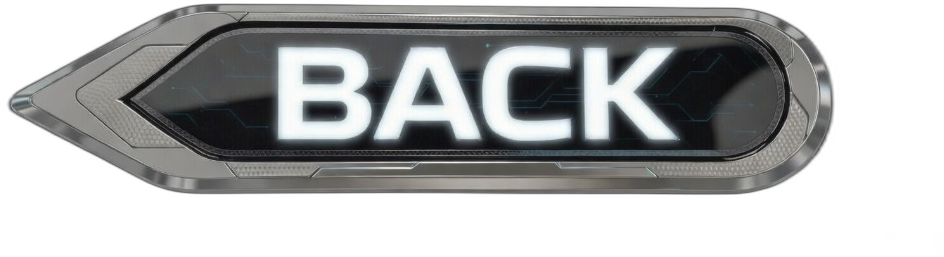
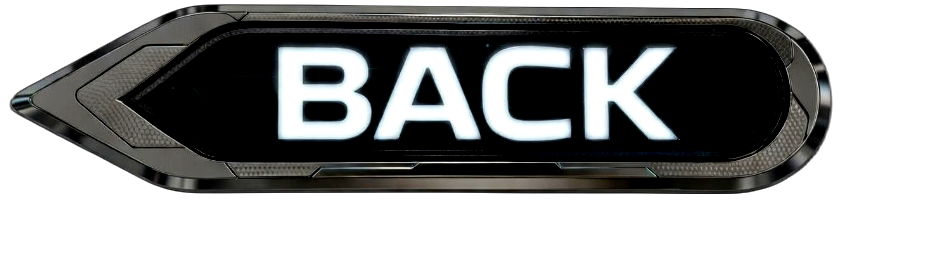
style: Restyle Invite Friends to card format with Facebook color scheme
- social-media.js: Invite Friends is now a card in the sidebar grid with
  Facebook blue SVG person-plus icon, removed from bottom links
- hamburgerMenus.js: removed emojis from all Invite Friends labels
- InviteFriendsModal.jsx: full Facebook color scheme (#1877F2, #242526,
  #42B72A), all emojis removed from buttons and text
- settings.js: referral card restyled to Facebook blue/green, all emojis
  removed from title, buttons, and body text

diff --git a/src/components/ui/InviteFriendsModal.jsx b/src/components/ui/InviteFriendsModal.jsx
@@ -16,8 +16,8 @@ const supabase = createClient(
 );
 
 // Share channel configurations
-const SHARE_MESSAGE = "Join me on Smarter.Poker — the ultimate poker training platform! Use my referral link to get 500💎 free diamonds on signup!";
-const SHARE_TITLE = "Join Smarter.Poker — Get 500💎 Free!";
+const SHARE_MESSAGE = "Join me on Smarter.Poker — the ultimate poker training platform! Use my referral link to get 500 free diamonds on signup!";
+const SHARE_TITLE = "Join Smarter.Poker — Get 500 Free Diamonds!";
 
 export default function InviteFriendsModal({ isOpen, onClose, user }) {
     const [playerNumber, setPlayerNumber] = useState(null);
@@ -177,10 +177,10 @@ export default function InviteFriendsModal({ isOpen, onClose, user }) {
                     width: 'min(420px, 92vw)',
                     maxHeight: '90vh',
                     overflowY: 'auto',
-                    background: 'linear-gradient(160deg, #1a1d2e, #0d0f1a)',
-                    border: '1px solid rgba(0, 212, 255, 0.25)',
+                    background: 'linear-gradient(160deg, #242526, #18191A)',
+                    border: '1px solid rgba(24, 119, 242, 0.3)',
                     borderRadius: 20,
-                    boxShadow: '0 20px 60px rgba(0,0,0,0.6), 0 0 40px rgba(0, 212, 255, 0.1)',
+                    boxShadow: '0 20px 60px rgba(0,0,0,0.6), 0 0 40px rgba(24, 119, 242, 0.1)',
                     zIndex: 10001,
                     animation: 'inviteModalIn 0.3s ease',
                     padding: 0,
@@ -202,14 +202,14 @@ export default function InviteFriendsModal({ isOpen, onClose, user }) {
                             color: '#fff',
                             letterSpacing: '-0.3px',
                         }}>
-                            🤝 Invite Friends
+                            Invite Friends
                         </h2>
                         <p style={{
                             margin: '6px 0 0',
                             fontSize: 13,
                             color: 'rgba(255,255,255,0.5)',
                         }}>
-                            Earn <strong style={{ color: '#FFD700' }}>500 💎</strong> for every friend who signs up!
+                            Earn <strong style={{ color: '#31A24C' }}>500 diamonds</strong> for every friend who signs up!
                         </p>
                     </div>
                     <button
@@ -239,8 +239,8 @@ export default function InviteFriendsModal({ isOpen, onClose, user }) {
                 {/* Referral Link Display */}
                 <div style={{ padding: '16px 24px' }}>
                     <div style={{
-                        background: 'rgba(0, 212, 255, 0.06)',
-                        border: '1px solid rgba(0, 212, 255, 0.15)',
+                        background: 'rgba(24, 119, 242, 0.06)',
+                        border: '1px solid rgba(24, 119, 242, 0.15)',
                         borderRadius: 12,
                         padding: '14px 16px',
                         display: 'flex',
@@ -250,7 +250,7 @@ export default function InviteFriendsModal({ isOpen, onClose, user }) {
                         <div style={{
                             flex: 1,
                             fontSize: 13,
-                            color: 'rgba(0, 212, 255, 0.9)',
+                            color: 'rgba(24, 119, 242, 0.9)',
                             fontFamily: 'monospace',
                             overflow: 'hidden',
                             textOverflow: 'ellipsis',
@@ -260,13 +260,13 @@ export default function InviteFriendsModal({ isOpen, onClose, user }) {
                         </div>
                         {playerNumber && (
                             <div style={{
-                                background: 'rgba(236, 72, 153, 0.2)',
-                                border: '1px solid rgba(236, 72, 153, 0.3)',
+                                background: 'rgba(24, 119, 242, 0.2)',
+                                border: '1px solid rgba(24, 119, 242, 0.3)',
                                 borderRadius: 8,
                                 padding: '4px 10px',
                                 fontSize: 12,
                                 fontWeight: 700,
-                                color: '#EC4899',
+                                color: '#1877F2',
                                 whiteSpace: 'nowrap',
                             }}>
                                 #{playerNumber}
@@ -285,8 +285,8 @@ export default function InviteFriendsModal({ isOpen, onClose, user }) {
                             flex: 1,
                             padding: '14px 16px',
                             background: copied
-                                ? 'linear-gradient(135deg, #10b981, #059669)'
-                                : 'linear-gradient(135deg, #00D4FF, #0088cc)',
+                                ? 'linear-gradient(135deg, #31A24C, #2b9a45)'
+                                : 'linear-gradient(135deg, #1877F2, #166FE5)',
                             border: 'none',
                             borderRadius: 12,
                             color: '#fff',
@@ -299,11 +299,11 @@ export default function InviteFriendsModal({ isOpen, onClose, user }) {
                             gap: 8,
                             transition: 'all 0.3s',
                             boxShadow: copied
-                                ? '0 4px 16px rgba(16, 185, 129, 0.4)'
-                                : '0 4px 16px rgba(0, 212, 255, 0.3)',
+                                ? '0 4px 16px rgba(49, 162, 76, 0.4)'
+                                : '0 4px 16px rgba(24, 119, 242, 0.3)',
                         }}
                     >
-                        {copied ? '✓ Copied!' : '📋 Copy Link'}
+                        {copied ? 'Copied!' : 'Copy Link'}
                     </button>
 
                     {/* Native Share - only on supported devices */}
@@ -314,7 +314,7 @@ export default function InviteFriendsModal({ isOpen, onClose, user }) {
                             style={{
                                 flex: 1,
                                 padding: '14px 16px',
-                                background: 'linear-gradient(135deg, #8B5CF6, #7C3AED)',
+                                background: 'linear-gradient(135deg, #1877F2, #42B72A)',
                                 border: 'none',
                                 borderRadius: 12,
                                 color: '#fff',
@@ -326,10 +326,10 @@ export default function InviteFriendsModal({ isOpen, onClose, user }) {
                                 justifyContent: 'center',
                                 gap: 8,
                                 transition: 'all 0.3s',
-                                boxShadow: '0 4px 16px rgba(139, 92, 246, 0.3)',
+                                boxShadow: '0 4px 16px rgba(24, 119, 242, 0.3)',
                             }}
                         >
-                            📱 Share
+                            Share
                         </button>
                     )}
                 </div>
@@ -357,7 +357,7 @@ export default function InviteFriendsModal({ isOpen, onClose, user }) {
                         onMouseEnter={e => e.currentTarget.style.background = 'rgba(255,255,255,0.1)'}
                         onMouseLeave={e => e.currentTarget.style.background = 'rgba(255,255,255,0.06)'}
                     >
-                        📧 Email
+                        Email
                     </a>
                     <a
                         href={`sms:?body=${encodeURIComponent(fullMessage)}`}
@@ -380,7 +380,7 @@ export default function InviteFriendsModal({ isOpen, onClose, user }) {
                         onMouseEnter={e => e.currentTarget.style.background = 'rgba(255,255,255,0.1)'}
                         onMouseLeave={e => e.currentTarget.style.background = 'rgba(255,255,255,0.06)'}
                     >
-                        💬 SMS
+                        SMS
                     </a>
                 </div>
 
@@ -468,9 +468,9 @@ export default function InviteFriendsModal({ isOpen, onClose, user }) {
                         color: 'rgba(255,255,255,0.3)',
                         lineHeight: 1.5,
                     }}>
-                        Your referral code: <strong style={{ color: '#EC4899' }}>#{playerNumber || '...'}</strong>
+                        Your referral code: <strong style={{ color: '#1877F2' }}>#{playerNumber || '...'}</strong>
                         <br />
-                        Friends enter your code during signup • You earn 500💎 each time
+                        Friends enter your code during signup and you earn 500 diamonds each time
                     </p>
                 </div>
             </div>

diff --git a/pages/hub/settings.js b/pages/hub/settings.js
@@ -745,14 +745,14 @@ export default function SettingsPage() {
                                 {userProfile?.player_number && (
                                     <div style={{
                                         ...styles.card,
-                                        background: 'linear-gradient(135deg, rgba(236, 72, 153, 0.15), rgba(168, 85, 247, 0.15))',
-                                        border: '1px solid rgba(236, 72, 153, 0.4)',
+                                        background: 'linear-gradient(135deg, rgba(24, 119, 242, 0.15), rgba(66, 183, 42, 0.1))',
+                                        border: '1px solid rgba(24, 119, 242, 0.3)',
                                     }}>
-                                        <h3 style={{ ...styles.cardTitle, color: '#EC4899', marginBottom: 8 }}>
-                                            🤝 Refer a Friend
+                                        <h3 style={{ ...styles.cardTitle, color: '#1877F2', marginBottom: 8 }}>
+                                            Refer a Friend
                                         </h3>
                                         <p style={{ color: 'rgba(255,255,255,0.7)', fontSize: 14, marginBottom: 16 }}>
-                                            Share your referral code and earn <strong style={{ color: '#FFD700' }}>500 💎</strong> for every friend who signs up!
+                                            Share your referral code and earn <strong style={{ color: '#42B72A' }}>500 diamonds</strong> for every friend who signs up!
                                         </p>
 
                                         {/* Player Number Display */}
@@ -764,7 +764,7 @@ export default function SettingsPage() {
                                             padding: '12px 16px',
                                             background: 'rgba(0, 0, 0, 0.3)',
                                             borderRadius: 10,
-                                            border: '1px solid rgba(236, 72, 153, 0.3)',
+                                            border: '1px solid rgba(24, 119, 242, 0.3)',
                                         }}>
                                             <div style={{ flex: 1 }}>
                                                 <div style={{ fontSize: 12, color: 'rgba(255,255,255,0.5)', marginBottom: 4 }}>Your Referral Code</div>
@@ -772,7 +772,7 @@ export default function SettingsPage() {
                                                     fontFamily: 'Orbitron, monospace',
                                                     fontSize: 28,
                                                     fontWeight: 700,
-                                                    color: '#EC4899',
+                                                    color: '#1877F2',
                                                     letterSpacing: '3px',
                                                 }}>
                                                     #{userProfile.player_number}
@@ -786,17 +786,17 @@ export default function SettingsPage() {
                                                 }}
                                                 style={{
                                                     padding: '10px 16px',
-                                                    background: referralCopied ? 'rgba(49, 162, 76, 0.3)' : 'rgba(236, 72, 153, 0.2)',
-                                                    border: `1px solid ${referralCopied ? 'rgba(49, 162, 76, 0.5)' : 'rgba(236, 72, 153, 0.4)'}`,
+                                                    background: referralCopied ? 'rgba(49, 162, 76, 0.3)' : 'rgba(24, 119, 242, 0.2)',
+                                                    border: `1px solid ${referralCopied ? 'rgba(49, 162, 76, 0.5)' : 'rgba(24, 119, 242, 0.4)'}`,
                                                     borderRadius: 8,
-                                                    color: referralCopied ? '#31A24C' : '#EC4899',
+                                                    color: referralCopied ? '#31A24C' : '#1877F2',
                                                     fontSize: 13,
                                                     fontWeight: 600,
                                                     cursor: 'pointer',
                                                     transition: 'all 0.2s ease',
                                                 }}
                                             >
-                                                {referralCopied ? '✓ Copied!' : '📋 Copy Code'}
+                                                {referralCopied ? 'Copied!' : 'Copy Code'}
                                             </button>
                                         </div>
 
@@ -811,7 +811,7 @@ export default function SettingsPage() {
                                             style={{
                                                 width: '100%',
                                                 padding: '14px 20px',
-                                                background: 'linear-gradient(135deg, #EC4899, #A855F7)',
+                                                background: 'linear-gradient(135deg, #1877F2, #166FE5)',
                                                 border: 'none',
                                                 borderRadius: 10,
                                                 color: '#fff',
@@ -822,11 +822,11 @@ export default function SettingsPage() {
                                                 alignItems: 'center',
                                                 justifyContent: 'center',
                                                 gap: 8,
-                                                boxShadow: '0 4px 20px rgba(236, 72, 153, 0.3)',
+                                                boxShadow: '0 4px 20px rgba(24, 119, 242, 0.3)',
                                                 transition: 'all 0.3s ease',
                                             }}
                                         >
-                                            🔗 Copy Referral Link
+                                            Copy Referral Link
                                         </button>
                                         {/* Invite Friends Button */}
                                         <button
@@ -834,7 +834,7 @@ export default function SettingsPage() {
                                             style={{
                                                 width: '100%',
                                                 padding: '14px 20px',
-                                                background: 'linear-gradient(135deg, #8B5CF6, #06B6D4)',
+                                                background: 'linear-gradient(135deg, #42B72A, #36A420)',
                                                 border: 'none',
                                                 borderRadius: 10,
                                                 color: '#fff',
@@ -845,15 +845,15 @@ export default function SettingsPage() {
                                                 alignItems: 'center',
                                                 justifyContent: 'center',
                                                 gap: 8,
-                                                boxShadow: '0 4px 20px rgba(139, 92, 246, 0.3)',
+                                                boxShadow: '0 4px 20px rgba(66, 183, 42, 0.3)',
                                                 transition: 'all 0.3s ease',
                                                 marginTop: 10,
                                             }}
                                         >
-                                            📲 Invite Friends — Share via Social, Email & SMS
+                                            Invite Friends — Share via Social, Email & SMS
                                         </button>
                                         <p style={{ color: 'rgba(255,255,255,0.4)', fontSize: 12, marginTop: 10, textAlign: 'center' }}>
-                                            Friends enter your code during signup, you earn 500💎 each time!
+                                            Friends enter your code during signup, you earn 500 diamonds each time!
                                         </p>
                                     </div>
                                 )}

diff --git a/pages/hub/social-media.js b/pages/hub/social-media.js
@@ -4397,6 +4397,22 @@ export default function SocialMediaPage() {
                             </svg>
                             <span style={{ fontSize: 15, fontWeight: 500, color: '#1c1e21' }}>Notifications</span>
                         </Link>
+                        {/* Invite Friends Card */}
+                        <div onClick={() => {
+                            if (!user) { alert('Please log in to invite friends.'); return; }
+                            setShowInviteModal(true);
+                        }} style={{
+                            display: 'flex', flexDirection: 'column', alignItems: 'flex-start', padding: '14px 12px',
+                            background: '#fff', borderRadius: 8, textDecoration: 'none', border: '1px solid #dadde1', cursor: 'pointer'
+                        }}>
+                            <svg width="36" height="36" viewBox="0 0 24 24" fill="none" style={{ marginBottom: 8 }}>
+                                <circle cx="9" cy="7" r="4" fill="#1877F2" />
+                                <path d="M2 21v-2a7 7 0 0114 0v2" fill="#1877F2" opacity="0.5" />
+                                <line x1="19" y1="8" x2="19" y2="14" stroke="#1877F2" strokeWidth="2" strokeLinecap="round" />
+                                <line x1="16" y1="11" x2="22" y2="11" stroke="#1877F2" strokeWidth="2" strokeLinecap="round" />
+                            </svg>
+                            <span style={{ fontSize: 15, fontWeight: 500, color: '#1c1e21' }}>Invite Friends</span>
+                        </div>
                     </div>
                 </div>
 
@@ -4411,24 +4427,6 @@ export default function SocialMediaPage() {
                         <span style={{ flex: 1, fontSize: 15 }}>Help and support</span>
                         <span style={{ color: C.textSec }}>›</span>
                     </Link>
-                    <button
-                        onClick={() => {
-                            if (!user) {
-                                alert('Please log in to invite friends.');
-                                return;
-                            }
-                            setShowInviteModal(true);
-                        }}
-                        style={{
-                            padding: '12px 0', display: 'flex', alignItems: 'center', gap: 12, cursor: 'pointer',
-                            background: 'none', border: 'none', width: '100%', textAlign: 'left',
-                            color: 'inherit', fontFamily: 'inherit'
-                        }}
-                    >
-                        <span style={{ fontSize: 20, width: 24, height: 24, display: 'flex', alignItems: 'center', justifyContent: 'center' }}>🤝</span>
-                        <span style={{ flex: 1, fontSize: 15 }}>Invite Friends</span>
-                        <span style={{ color: C.textSec }}>›</span>
-                    </button>
                     <Link href="/hub/settings" onClick={() => setSidebarOpen(false)} style={{
                         padding: '12px 0', display: 'flex', alignItems: 'center', gap: 12, cursor: 'pointer', textDecoration: 'none', color: 'inherit'
                     }}>

diff --git a/src/config/hamburgerMenus.js b/src/config/hamburgerMenus.js
@@ -646,7 +646,7 @@ export const MENU_CONFIGS = {
             createMenuItem.navigation('My Friends', '/hub/friends'),
             createMenuItem.navigation('Notifications', '/hub/notifications'),
             createMenuItem.divider(),
-            { type: 'action', label: '🤝 Invite Friends', openInviteModal: true, closeOnClick: false }
+            { type: 'action', label: 'Invite Friends', openInviteModal: true, closeOnClick: false }
         ],
         bottomLinks: [
             { label: 'Settings', href: '/hub/settings', icon: MenuIcons.settings }
@@ -666,7 +666,7 @@ export const MENU_CONFIGS = {
             createMenuItem.navigation('Lives', '/hub/lives'),
             createMenuItem.navigation('Video Library', '/hub/video-library'),
             createMenuItem.divider(),
-            { type: 'action', label: '🤝 Invite Friends', openInviteModal: true, closeOnClick: false }
+            { type: 'action', label: 'Invite Friends', openInviteModal: true, closeOnClick: false }
         ],
         bottomLinks: [
             { label: 'Settings', href: '/hub/settings', icon: MenuIcons.settings }
@@ -875,7 +875,7 @@ export function getMenuConfig(worldKey, user, state = {}, handlers = {}) {
             result.bottomLinks.some(l => l?.label?.includes?.('Refer a Friend') || l?.label?.includes?.('Invite Friends') || l?.openInviteModal);
         if (!alreadyHasReferral) {
             const referralItem = {
-                label: '🤝 Invite Friends',
+                label: 'Invite Friends',
                 action: true,
                 openInviteModal: true,
             };

diff --git a/src/components/ui/UniversalHeader.js b/src/components/ui/UniversalHeader.js
@@ -415,7 +415,7 @@ export default function UniversalHeader({
                 }
 
                 .header-nav-btn img {
-                    /* No filter — render buttons at native colors for solid black interior */
+                    filter: contrast(1.2);
                 }
                 
                 .brand-text {
